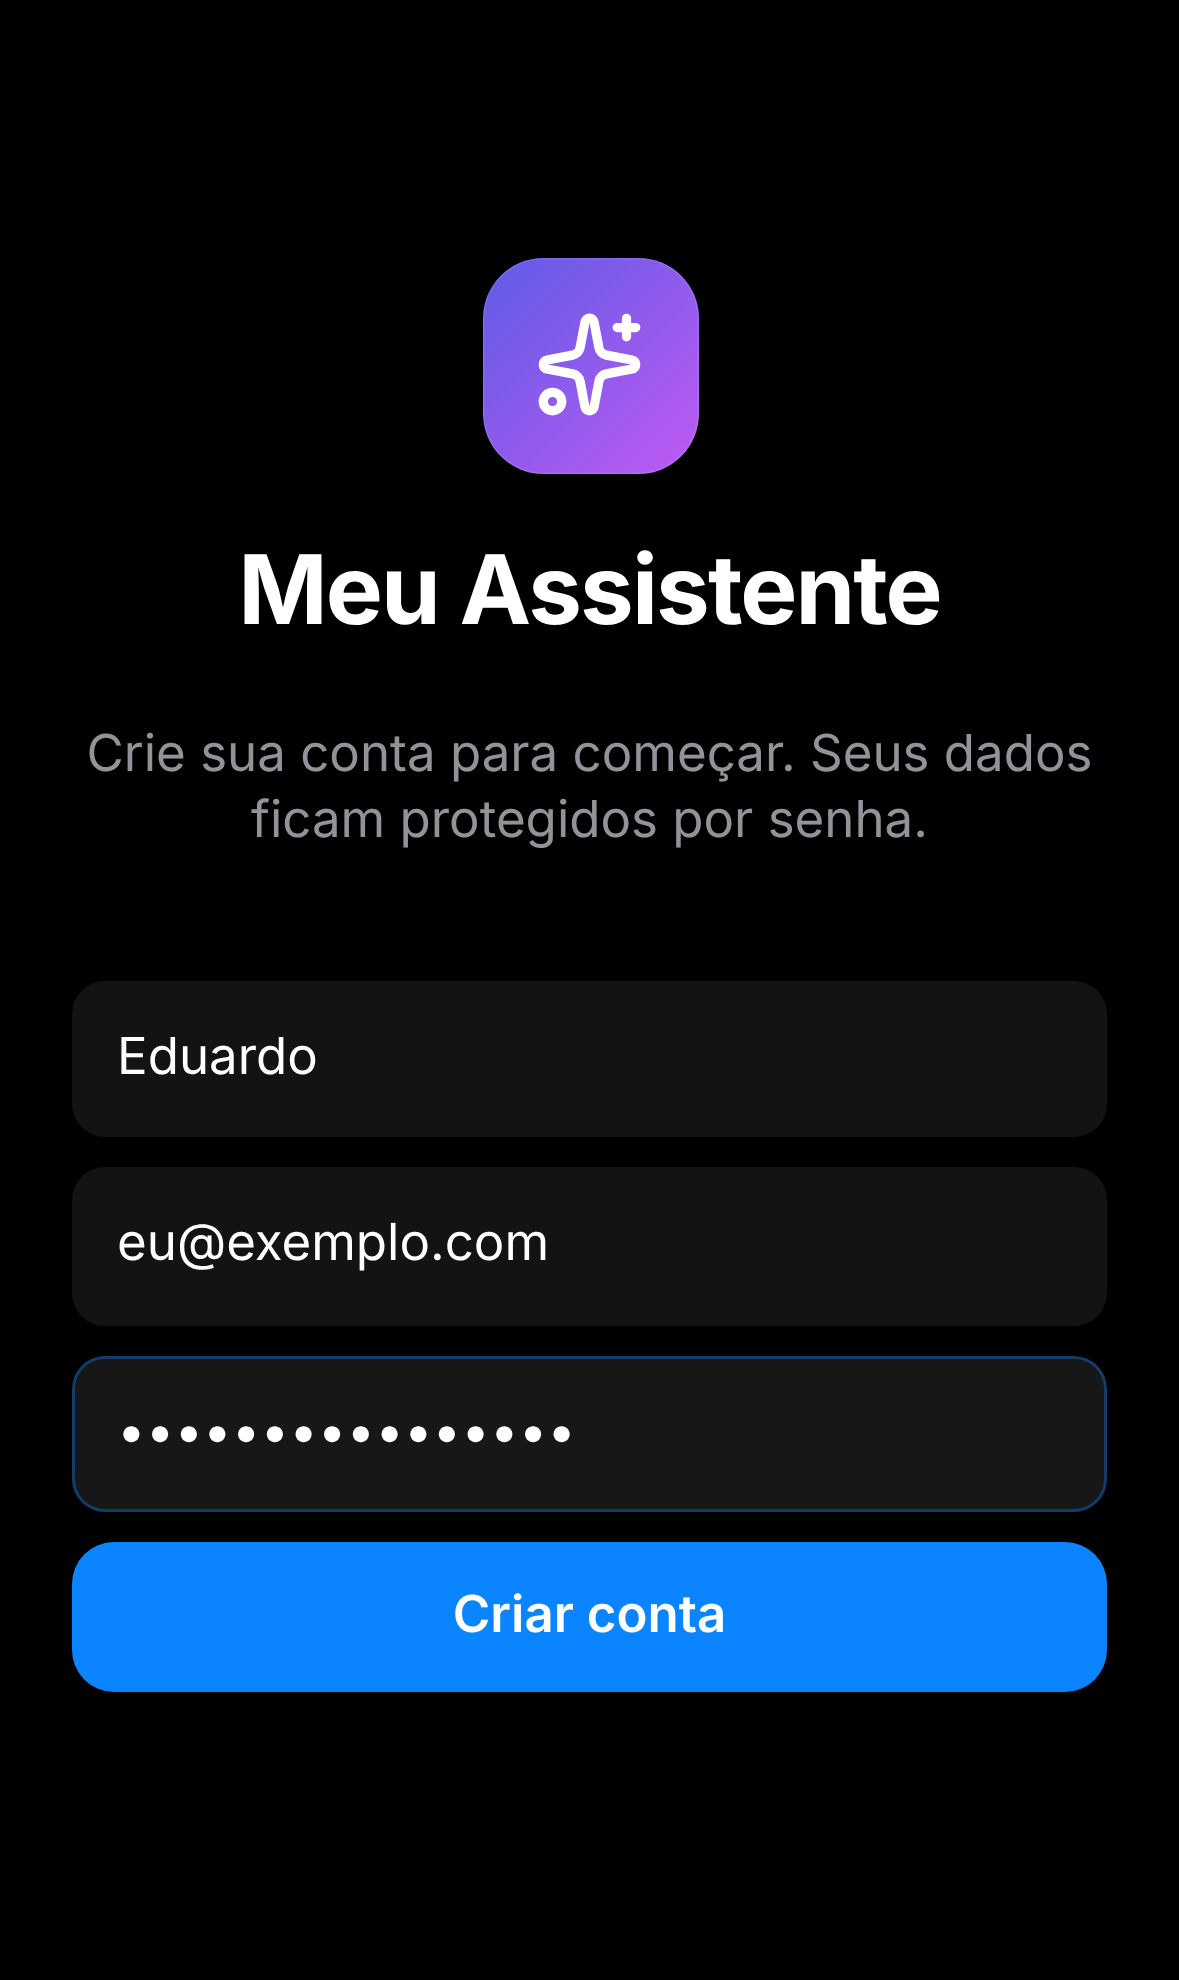
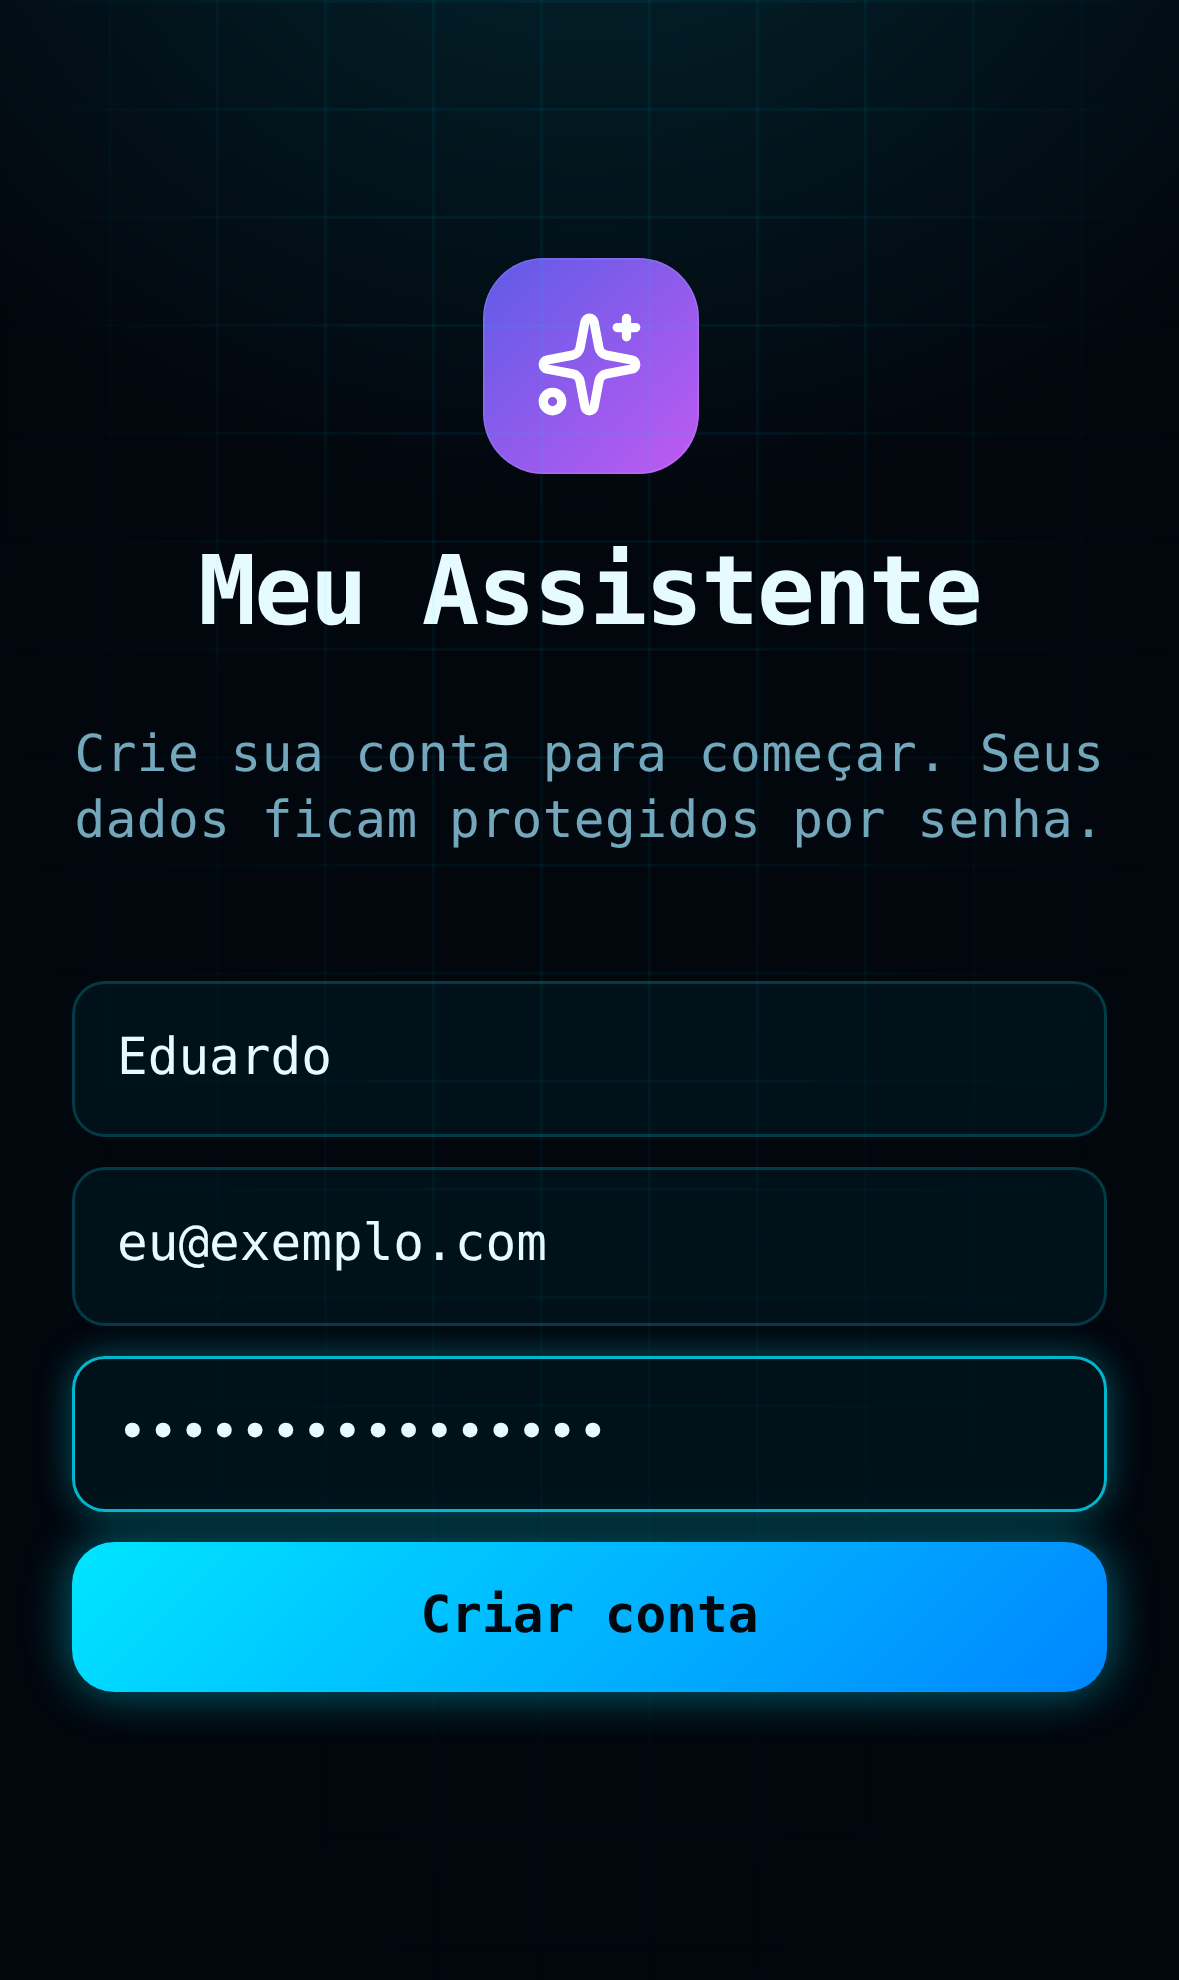
Visual futurista (HUD) e personalidade do Jarvis
- Tema escuro no estilo HUD: ciano neon, grade, brilho e tipografia técnica
- Resumo do dia ao cumprimentar ("Bom dia, Jarvis") e conversa simpática
- Cumprimento seguido de comando executa o comando
- Valores sem "reais" em listas de gastos ("e 35 de gasolina")

Claude-Session: https://claude.ai/code/session_0151EJHbvCumPeqqLXKzTJCo

diff --git a/web/src/styles.css b/web/src/styles.css
@@ -370,3 +370,62 @@ select { -webkit-appearance: none; appearance: none; background-image: linear-gr
 .pad-row { padding: 0 14px 12px; justify-content: flex-start; margin-top: 0; }
 .copy-row { display: flex; gap: 8px; align-items: center; }
 .copy-row code { flex: 1; min-width: 0; overflow-wrap: anywhere; font-size: 13px; background: var(--fill2); padding: 9px 10px; border-radius: 10px; }
+
+/* ===================== Tema HUD (futurista, inspirado no Jarvis) ===================== */
+[data-theme='dark'] {
+  --bg: #02060D; --bg2: #08121E; --bg3: #0C1B2C; --card: rgba(8, 20, 34, .78); --elev: #0C1B2C;
+  --text: #E6FBFF; --text2: rgba(160, 230, 255, .72); --text3: rgba(160, 230, 255, .38);
+  --sep: rgba(0, 229, 255, .16); --fill: rgba(0, 229, 255, .10); --fill2: rgba(0, 229, 255, .06);
+  --bar: rgba(4, 12, 22, .9); --shadow: 0 0 24px rgba(0, 229, 255, .18);
+  --blue: #00E5FF; --green: #39FFB0; --red: #FF4D6D; --orange: #FFB020; --purple: #7C5CFF;
+}
+[data-theme='dark'] body {
+  background: radial-gradient(120% 60% at 50% -10%, rgba(0, 229, 255, .14), transparent 60%), #02060D;
+  font-family: 'SF Mono', 'Menlo', 'Consolas', ui-monospace, monospace;
+  letter-spacing: .01em;
+}
+[data-theme='dark'] body::before {
+  content: ''; position: fixed; inset: 0; pointer-events: none; z-index: 0;
+  background-image: linear-gradient(rgba(0, 229, 255, .05) 1px, transparent 1px), linear-gradient(90deg, rgba(0, 229, 255, .05) 1px, transparent 1px);
+  background-size: 36px 36px; mask-image: radial-gradient(ellipse at 50% 0%, #000 30%, transparent 75%);
+}
+[data-theme='dark'] .large-title, [data-theme='dark'] .hero-value, [data-theme='dark'] .stat strong, [data-theme='dark'] .sheet-head h2 {
+  font-family: 'Orbitron', 'Eurostile', 'SF Pro Display', system-ui, sans-serif; letter-spacing: .04em; text-shadow: 0 0 18px rgba(0, 229, 255, .35);
+}
+[data-theme='dark'] .large-title { font-size: 30px; text-transform: uppercase; }
+[data-theme='dark'] .group-body, [data-theme='dark'] .card-pad, [data-theme='dark'] .stat, [data-theme='dark'] .week-day, [data-theme='dark'] .rule, [data-theme='dark'] .result {
+  border: 1px solid rgba(0, 229, 255, .22); box-shadow: inset 0 0 22px rgba(0, 229, 255, .05), 0 0 16px rgba(0, 229, 255, .08);
+  backdrop-filter: blur(10px); -webkit-backdrop-filter: blur(10px);
+}
+[data-theme='dark'] .group-title { color: var(--blue); text-shadow: 0 0 10px rgba(0, 229, 255, .5); }
+[data-theme='dark'] .hero-card {
+  background: linear-gradient(145deg, rgba(0, 229, 255, .18), rgba(124, 92, 255, .12)); border: 1px solid rgba(0, 229, 255, .45);
+  box-shadow: 0 0 40px rgba(0, 229, 255, .22), inset 0 0 40px rgba(0, 229, 255, .08);
+}
+[data-theme='dark'] .hero-card::after { background: radial-gradient(circle, rgba(0, 229, 255, .25), transparent 70%); }
+[data-theme='dark'] .mic {
+  background: radial-gradient(circle at 30% 30%, #7FF6FF, #00A6FF 55%, #0040A8);
+  box-shadow: 0 0 0 1px rgba(0, 229, 255, .6), 0 0 28px rgba(0, 229, 255, .6), inset 0 0 14px rgba(255, 255, 255, .25);
+}
+[data-theme='dark'] .mic.recording { background: radial-gradient(circle at 30% 30%, #FFB3C0, #FF4D6D 55%, #8A0020); box-shadow: 0 0 36px rgba(255, 77, 109, .7); }
+[data-theme='dark'] .btn.primary { background: linear-gradient(135deg, #00E5FF, #0086FF); color: #02060D; font-weight: 700; box-shadow: 0 0 16px rgba(0, 229, 255, .45); }
+[data-theme='dark'] .tabbar { background: rgba(3, 10, 18, .92); border-top: 1px solid rgba(0, 229, 255, .3); box-shadow: 0 -6px 24px rgba(0, 229, 255, .12); }
+[data-theme='dark'] .tabbar button.active { color: var(--blue); text-shadow: 0 0 12px rgba(0, 229, 255, .8); }
+[data-theme='dark'] .dock-input { border: 1px solid rgba(0, 229, 255, .4); box-shadow: 0 0 18px rgba(0, 229, 255, .18); }
+[data-theme='dark'] .sheet { background: rgba(4, 12, 22, .97); border-top: 1px solid rgba(0, 229, 255, .4); box-shadow: 0 -10px 40px rgba(0, 229, 255, .2); }
+[data-theme='dark'] .sheet .group-body, [data-theme='dark'] .sheet .card-pad, [data-theme='dark'] .sheet .result { background: rgba(8, 20, 34, .9); }
+[data-theme='dark'] .toast { background: rgba(8, 20, 34, .95); border: 1px solid rgba(0, 229, 255, .4); }
+[data-theme='dark'] .live-bubble { background: rgba(8, 20, 34, .95); border: 1px solid rgba(0, 229, 255, .4); }
+[data-theme='dark'] .segmented { background: rgba(0, 229, 255, .08); border: 1px solid rgba(0, 229, 255, .2); }
+[data-theme='dark'] .segmented button.active { background: rgba(0, 229, 255, .22); color: var(--text); box-shadow: 0 0 12px rgba(0, 229, 255, .35); }
+[data-theme='dark'] .day.today .day-num, [data-theme='dark'] .week-day.today .num { color: var(--blue); text-shadow: 0 0 10px var(--blue); }
+[data-theme='dark'] .day.sel .day-num { background: var(--blue); color: #02060D; box-shadow: 0 0 12px var(--blue); }
+[data-theme='dark'] input, [data-theme='dark'] select, [data-theme='dark'] textarea { border: 1px solid rgba(0, 229, 255, .2); background: rgba(0, 229, 255, .05); }
+[data-theme='dark'] input:focus, [data-theme='dark'] select:focus, [data-theme='dark'] textarea:focus { border-color: var(--blue); box-shadow: 0 0 12px rgba(0, 229, 255, .35); }
+[data-theme='dark'] .bar.sel .bar-fill { background: linear-gradient(var(--blue), #7C5CFF); box-shadow: 0 0 12px rgba(0, 229, 255, .6); }
+[data-theme='dark'] .topbar { background: linear-gradient(#02060D 60%, transparent); }
+[data-theme='dark'] .topbar::after { content: 'J.A.R.V.I.S  ●  ONLINE'; position: absolute; left: 50%; transform: translateX(-50%); top: 14px; font-size: 11px; letter-spacing: .25em; color: var(--blue); opacity: .75; text-shadow: 0 0 8px rgba(0, 229, 255, .6); }
+[data-theme='dark'] .topbar { position: sticky; }
+[data-theme='dark'] .dock-input input, [data-theme='dark'] .dock-input input:focus { border: 0; background: none; box-shadow: none; }
+[data-theme='dark'] .tabbar { background: #030A12; }
+[data-theme='dark'] .hero-chips div { background: rgba(0, 229, 255, .10); border: 1px solid rgba(0, 229, 255, .25); }

diff --git a/server/nlp/execute.js b/server/nlp/execute.js
@@ -371,6 +371,42 @@ export function executeAction(db, user, input, { confirmed = false, source = 'te
       if (upcoming.length) msg += `\nAinda vai entrar: ${upcoming.map((o) => `${o.name} ${brl(o.amount_cents)} (${dateLabel(o.due_date, tz)})`).join(', ')}.`;
       return answer(msg, { ...sm, incomes: list });
     }
+    // ------------------------------------------------------------ personalidade
+    case 'briefing': {
+      const first = (user.name || '').split(' ')[0] || '';
+      const nowL = now(tz);
+      const greet = nowL.hour < 12 ? 'Bom dia' : nowL.hour < 18 ? 'Boa tarde' : 'Boa noite';
+      const t = today(tz);
+      const parts = [`${greet}${first ? `, ${first}` : ''}.`];
+      const hhmm = nowL.toFormat('HH:mm');
+      const todayEvs = ag.listEvents(db, user.id, { start: t, end: t }).filter((e) => e.status === 'scheduled' && (!e.time || e.time >= hhmm));
+      if (todayEvs.length) parts.push(`Hoje você tem ${todayEvs.length === 1 ? 'um compromisso' : `${todayEvs.length} compromissos`}: ${todayEvs.slice(0, 4).map((e) => `${e.title}${e.time ? ` às ${e.time}` : ''}`).join(', ')}.`);
+      else parts.push('Sua agenda está livre pelo resto do dia.');
+      const tomorrow = ag.listEvents(db, user.id, { start: addDays(t, 1), end: addDays(t, 1) }).filter((e) => e.status === 'scheduled');
+      if (tomorrow.length) parts.push(`Amanhã: ${tomorrow.slice(0, 3).map((e) => `${e.title}${e.time ? ` às ${e.time}` : ''}`).join(', ')}.`);
+      rec.materializeCharges(db, user);
+      const due = db.prepare(`SELECT ch.amount_cents, r.name, r.direction FROM recurrence_charges ch JOIN recurrences r ON r.id=ch.recurrence_id WHERE ch.user_id=? AND ch.status='pending' AND ch.due_date <= ? AND r.direction != 'income'`).all(user.id, t);
+      if (due.length) parts.push(`Contas aguardando pagamento: ${due.slice(0, 3).map((c) => `${c.name}, ${brl(c.amount_cents)}`).join('; ')}.`);
+      const m = fin.sumExpenses(db, user.id, { start: DateTime.fromISO(t).startOf('month').toISODate(), end: t }).total_cents;
+      parts.push(`Neste mês você gastou ${brl(m)}.`);
+      const b = cf.balanceSummary(db, user);
+      if (b.accounts.length) parts.push(`Seu saldo estimado é ${brl(b.estimated_cents)}.`);
+      const over = fin.budgetStatus(db, user, t).filter((x) => x.pct >= 1);
+      if (over.length) parts.push(`Atenção: o orçamento de ${over.map((x) => x.name).join(' e ')} foi ultrapassado.`);
+      parts.push('Em que posso ajudar?');
+      return answer(parts.join(' '), { events: todayEvs, due });
+    }
+    case 'small_talk': {
+      const first = (user.name || '').split(' ')[0] || '';
+      const pick = (arr) => arr[Math.floor(Date.now() / 1000) % arr.length];
+      const lines = {
+        thanks: [`Disponha${first ? `, ${first}` : ''}. Estou sempre por aqui.`, 'Sempre às ordens.', `Por nada${first ? `, ${first}` : ''}. É um prazer ajudar.`],
+        howareyou: [`Tudo funcionando perfeitamente${first ? `, ${first}` : ''}. E com você, como está o dia?`, 'Sistemas operando a cem por cento. Em que posso ajudar?'],
+        who: ['Sou o Jarvis, seu assistente pessoal. Cuido das suas finanças, da sua agenda e respondo o que você precisar.'],
+        bye: [`Até mais${first ? `, ${first}` : ''}. Estarei aqui quando precisar.`, 'Até logo. Qualquer coisa, é só chamar.'],
+      };
+      return answer(pick(lines[a.text] || lines.howareyou));
+    }
     case 'search': {
       const q = a.text || '';
       const exps = fin.listExpenses(db, user.id, { q, limit: 20 });

diff --git a/server/nlp/parse-local.js b/server/nlp/parse-local.js
@@ -425,9 +425,38 @@ export function parseLocal(text, ctx) {
       n = t.n;
     }
   }
+  // Valores seguintes sem "reais" numa lista de gastos: "20 reais no lanche e 35 de gasolina".
+  if (money.length && /\b(gastei|comprei|paguei|gastamos|compramos|pagamos)\b/.test(n)) {
+    const re = new RegExp(`(?:,|\\be|\\bmais)\\s+${NUM}(?=\\s+(?:de|em|no|na|num|numa|com|pra|para|pro)\\s)`, 'g');
+    const hits = [...n.matchAll(re)].filter((m) => !money.some((x) => m.index >= x.index && m.index < x.end));
+    for (const m of hits.reverse()) {
+      const numStart = m.index + m[0].lastIndexOf(m[1]);
+      t.replace(numStart, numStart + m[1].length, `${m[1]} reais`);
+    }
+    if (hits.length) { n = t.n; money = findMoney(n); }
+  }
   const isQuestion = Q_START.test(n) || /\?\s*$/.test(n);
 
   if (!n.trim()) return { actions: [action('clarify', { question: 'Não entendi. Pode repetir?' })] };
+
+  // ---------------- Conversa e resumo do dia (personalidade do Jarvis) ----------------
+  const plain = n.replace(/[^a-z0-9\s]/g, ' ').replace(/\s+/g, ' ').trim().replace(/^(ok |ei |hey )?jarvis\s*/, '');
+  if (/^(muito )?(obrigad[oa]|valeu|vlw|brigad[oa]|agradeco|grato|grata)\b/.test(plain)) return { actions: [action('small_talk', { text: 'thanks' })] };
+  if (/^(tchau|ate mais|ate logo|ate amanha|falou|boa noite e ate)\b/.test(plain)) return { actions: [action('small_talk', { text: 'bye' })] };
+  if (/^(quem e voce|quem voce e|qual (e )?(o )?seu nome|o que voce (faz|e))\b/.test(plain)) return { actions: [action('small_talk', { text: 'who' })] };
+  if (/^((e )?(tudo|td) (bem|bom|certo|joia|tranquilo)|como (voce )?(esta|vai)( voce)?|como vai|beleza)\s*$/.test(plain)) return { actions: [action('small_talk', { text: 'howareyou' })] };
+  const greet = /^(bom dia|boa tarde|boa noite|oi|ola|e ai|eai|fala|opa|hey|salve)\b\s*(jarvis)?\s*/;
+  const asksSummary = /\b(resumo|como (esta|vai|ta) (o )?meu dia|o que (eu )?tenho (pra|para) hoje|minha agenda de hoje|novidades|status|me atualiza|me atualize)\b/;
+  if (greet.test(plain)) {
+    const rest = plain.replace(greet, '').replace(/^(tudo bem|tudo bom|como vai)\s*/, '').trim();
+    if (!rest || asksSummary.test(rest) || rest.split(' ').length <= 1) return { actions: [action('briefing')] };
+    // Cumprimento seguido de comando: remove o cumprimento e segue interpretando ("Bom dia, gastei 20 no café").
+    t.cut(/^\s*(?:(?:ok|ei|hey)\s+)?(?:jarvis[\s,!.]*)?(?:bom dia|boa tarde|boa noite|oi|ola|e ai|eai|fala|opa|hey|salve)[\s,!.]*(?:jarvis[\s,!.]*)?/);
+    n = t.n;
+    money = findMoney(n);
+  } else if (asksSummary.test(plain) && !money.length) {
+    return { actions: [action('briefing')] };
+  }
 
   // ---------------- Consultas ----------------
   if (/^\s*(?:procure|procura|pesquise|pesquisa|busque|busca|buscar|encontre|encontra|ache|acha|localize)\b/.test(n)) {

diff --git a/test/jarvis.test.js b/test/jarvis.test.js
@@ -137,3 +137,27 @@ test('consultas de agenda por voz', async () => {
 test('texto para fala fica limpo', () => {
   assert.equal(toSpeech('Você tem 2 compromissos:\n• Mercado — hoje às 16:00\n• Dentista — amanhã às 10:00'), 'Você tem 2 compromissos: Mercado, hoje às 16:00. Dentista, amanhã às 10:00.');
 });
+
+test('personalidade: bom dia traz o resumo do dia; conversa simpática', async () => {
+  setNow('2026-12-03T08:00:00-03:00');
+  try {
+    let r = await jarvis('Bom dia, Jarvis');
+    assert.equal(r.modo, 'assistente');
+    assert.match(r.resposta, /^Bom dia, Eduardo\./);
+    assert.match(r.resposta, /Hoje você tem um compromisso: Reunião com cliente às 09:00\./);
+    assert.match(r.resposta, /Neste mês você gastou R\$/);
+    assert.match(r.resposta, /saldo estimado/);
+    assert.match(r.resposta, /Em que posso ajudar\?$/);
+    r = await jarvis('Obrigado!');
+    assert.match(r.resposta, /Disponha|Sempre às ordens|Por nada/);
+    r = await jarvis('Quem é você?');
+    assert.match(r.resposta, /Sou o Jarvis/);
+    r = await jarvis('Tudo bem?');
+    assert.equal(r.modo, 'assistente');
+    // "bom dia" seguido de um comando executa o comando
+    r = await jarvis('Bom dia, gastei 20 reais no café');
+    assert.match(r.resposta, /Registrado: Café, R\$\s?20,00/);
+  } finally {
+    setNow('2026-11-23T09:00:00-03:00');
+  }
+});

diff --git a/web/src/VoiceDock.jsx b/web/src/VoiceDock.jsx
@@ -185,7 +185,7 @@ export default function VoiceDock() {
         {voice.state === 'transcribing' && <div className="live-bubble"><Spinner size={14} /> Transcrevendo…</div>}
         <form className="dock-input" onSubmit={(e) => { e.preventDefault(); submit(text); }}>
           <Sparkles size={18} className="dock-spark" />
-          <input ref={inputRef} value={text} onChange={(e) => setText(e.target.value)} placeholder="Diga ou digite: gastei 20 no almoço…" enterKeyHint="send" aria-label="Comando de texto" />
+          <input ref={inputRef} value={text} onChange={(e) => setText(e.target.value)} placeholder="Fale com o Jarvis…" enterKeyHint="send" aria-label="Comando de texto" />
           {text && <button className="dock-send" aria-label="Enviar"><SendHorizontal size={18} /></button>}
         </form>
         <button
@@ -198,7 +198,7 @@ export default function VoiceDock() {
         </button>
       </div>
 
-      <Sheet open={!!sheet} onClose={() => { setSheet(null); setEditing(false); }} title="Assistente">
+      <Sheet open={!!sheet} onClose={() => { setSheet(null); setEditing(false); }} title="Jarvis">
         {sheet && (
           <div className="assistant">
             <div className="transcript">

diff --git a/server/nlp/llm.js b/server/nlp/llm.js
@@ -50,6 +50,8 @@ Tipos de ação:
 - query_recurrences: perguntas sobre assinaturas/despesas fixas. kind (subscription|fixed|null), category, within_days (para "vencem nos próximos N dias").
 - forecast: "quanto vou gastar…", previsão de despesas futuras. period {start, end}.
 - search: pesquisa livre. text.
+- briefing: saudação ou pedido de resumo do dia (ex.: "bom dia", "oi Jarvis", "como está meu dia?").
+- small_talk: conversa social curta. text = "thanks" (agradecimento), "howareyou" (tudo bem? como vai?), "who" (quem é você?) ou "bye" (tchau).
 - clarify: quando não for possível entender. question = pergunta curta ao usuário.
 
 Regras de datas (use a data/hora atual fornecida no contexto):

diff --git a/server/nlp/schema.js b/server/nlp/schema.js
@@ -9,6 +9,7 @@ export const ACTION_TYPES = [
   'create_event', 'update_event', 'cancel_event', 'complete_event',
   'create_income', 'set_balance', 'query_balance', 'query_income',
   'query_expenses', 'query_events', 'query_recurrences', 'forecast', 'search',
+  'briefing', 'small_talk',
   'clarify',
 ];
 
